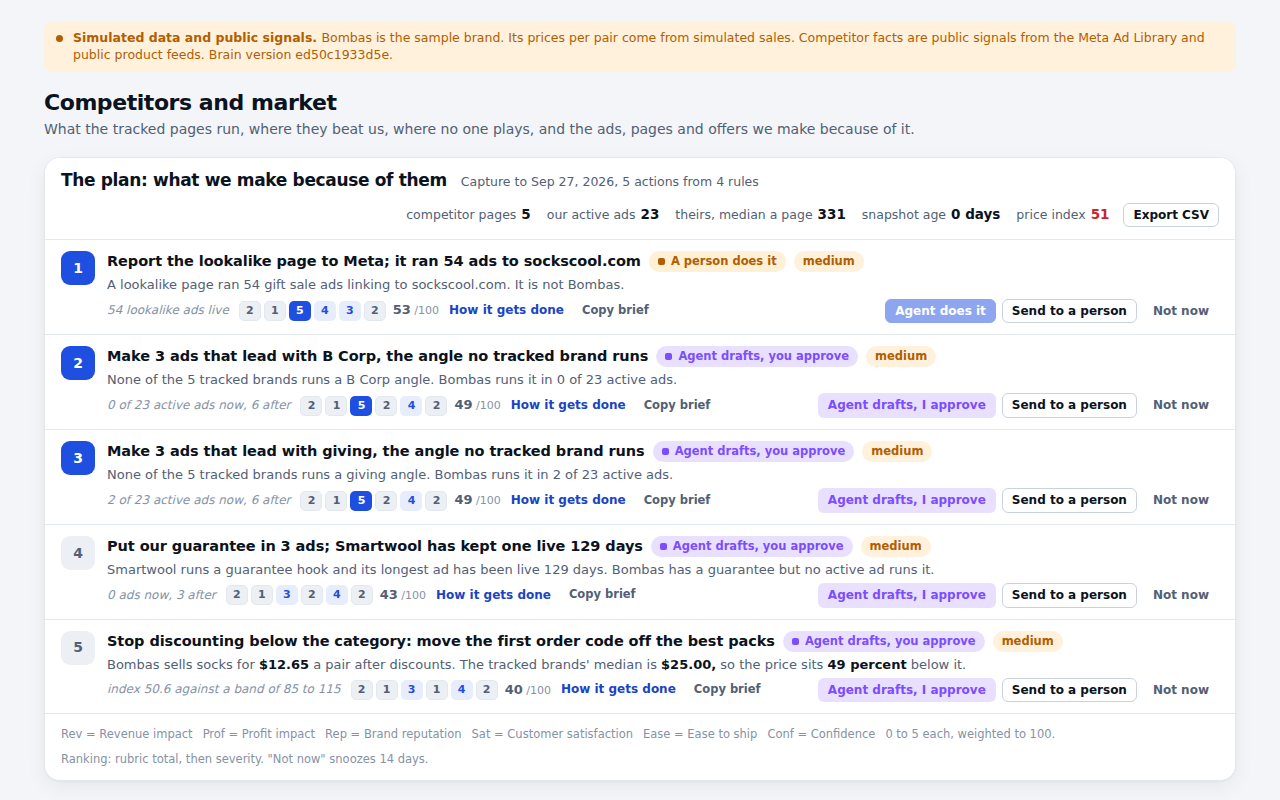
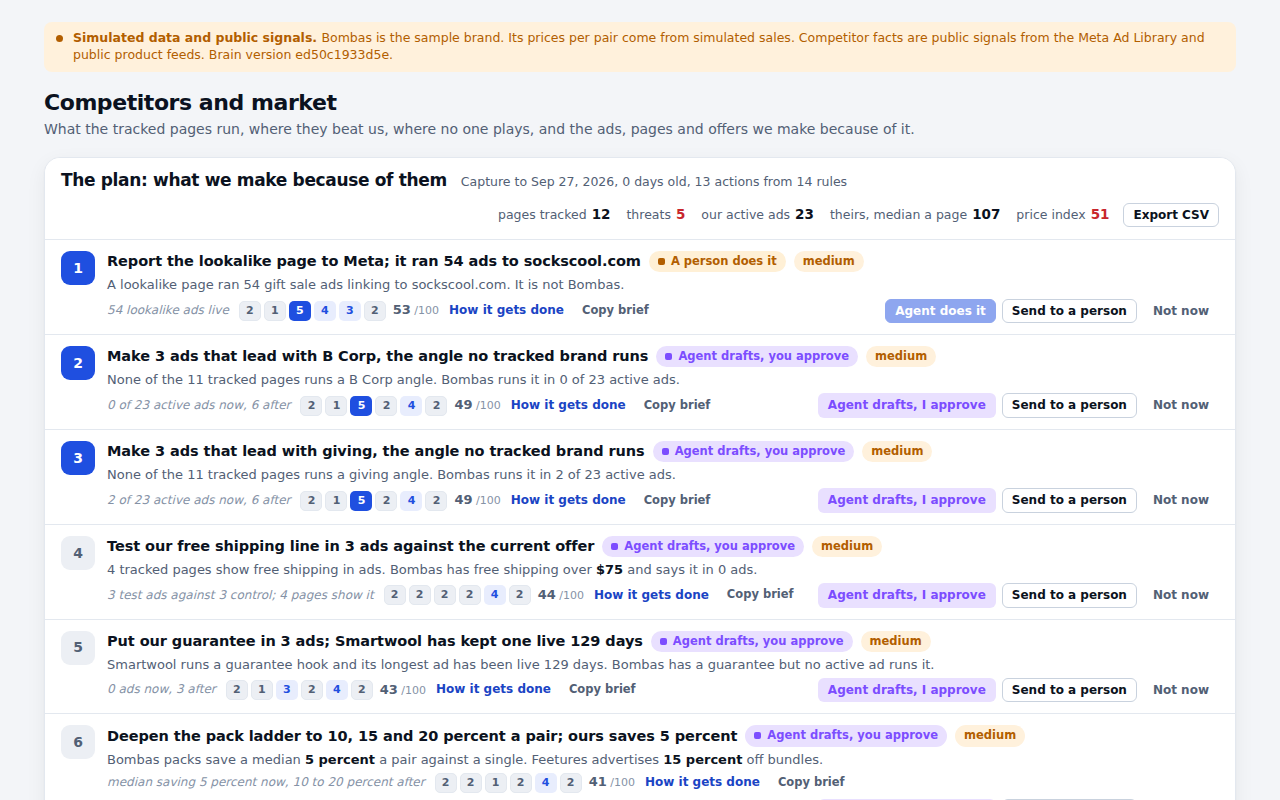
Competitors 1.10: rank for all 14 rules with real titles, steps, artefacts and drafts; findings grouped by bottleneck; orientation on the 12 pages; the angle rule checks every page with data; the round 0 formats board removed; phone width fixed; tests that every rule has a builder, every open findin
Claude-Session: https://claude.ai/code/session_01DDhw6WYtBQKeQKJrXFNfTo

diff --git a/app/screens/03-competitors/screen.js b/app/screens/03-competitors/screen.js
@@ -10,7 +10,6 @@
   const NS = 'http://www.w3.org/2000/svg';
   const pretty = (s) => String(s || '').replace(/_/g, ' ');
   const usd = (v) => v == null ? NA : '$' + Number(v).toFixed(2);
-  const chips = (list, cls) => el('div', { class: 'chips' }, ...(list || []).map((t) => el('span', { class: 'chip ' + (cls || ''), text: t })));
 
   function svg(tag, attrs, text) {
     const n = document.createElementNS(NS, tag);
@@ -100,14 +99,6 @@
       el('ul', { class: 'small muted' }, ...lad.bands.map((x) => el('li', null, x.name + ': ' + x.text + '. ', x.ref ? el('a', { href: x.ref, target: '_blank', rel: 'noopener', text: 'source' }) : null))));
   }
 
-  function boardCard(b) {
-    return el('article', { class: 'card' + (b.brand ? ' brand' : '') },
-      el('div', { class: 'row' }, el('b', { text: b.name }), b.brand ? el('span', { class: 'chip accent', text: 'your brand' }) : null,
-        el('span', { class: 'muted small', text: (b.active_ads == null ? NA : b.active_ads) + ' active ads' })),
-      el('div', { class: 'muted small', text: 'Formats' }), chips(b.formats),
-      el('div', { class: 'muted small', text: 'Hook types' }), chips(b.hooks, 'accent'));
-  }
-
   function auditTable(findings) {
     return UI.table({
       columns: [
@@ -128,7 +119,7 @@
   function planSection(p) {
     const w = p.window || {};
     mount('#plan', UI.planBoard({
-      title: 'The plan: what we make because of them', sub: 'Capture to ' + fmt.date(w.ends_on) + ', ' + p.actions.length + ' actions from ' + p.rules.length + ' rules',
+      title: 'The plan: what we make because of them', sub: 'Capture to ' + fmt.date(w.ends_on) + (p.snapshot_age_days == null ? '' : ', ' + p.snapshot_age_days + ' days old') + ', ' + p.actions.length + ' actions from ' + p.rules.length + ' rules',
       orient: p.orient, actions: p.actions, limit: 10, screen: SCREEN,
       tools: [el('button', { class: 'btn sm', type: 'button', text: 'Export CSV', onclick: () => UI.csv(p.actions.map((a, i) => ({ rank: i + 1, title: a.title, owner: a.owner, artefact: a.artefact.kind, severity: a.severity, total: a.rubric.total, why: a.why, check_on: a.check_on })), null, 'competitor-actions.csv') })],
       foot: el('div', { class: 'row' }, UI.rubricLegend(), el('span', { class: 'micro faint', text: 'Ranking: rubric total, then severity. "Not now" snoozes 14 days.' + (p.snoozed ? ' ' + p.snoozed + ' snoozed.' : '') })),
@@ -148,10 +139,10 @@
     const base = e.baseline == null ? '' : ' against ' + (Array.isArray(e.baseline) ? e.baseline.join(' to ') : one(e.baseline)) + ' (' + pretty(e.baseline_kind) + ')';
     return el('li', null, el('span', { class: 'mono micro', text: e.metric }), ' ', el('b', { class: 'num', text: v }), base, el('span', { class: 'faint', text: ', ' + e.window + (e.simulated ? ', simulated' : '') }));
   }
-  function wrongList(findings, actionsById) {
+  function wrongList(findings, actionsById, p) {
     const open = findings.filter((f) => f.status !== 'resolved').sort((a, b) => (SEV[a.severity] - SEV[b.severity]) || (b.confidence - a.confidence));
     if (!open.length) return [el('p', { class: 'muted', text: 'Nothing open on this capture.' })];
-    return open.map((f) => {
+    const card = (f) => {
       const a = actionsById[f.id];
       const go = a ? el('button', { class: 'btn soft xs', type: 'button', text: 'Go to the action', onclick: () => { const n = document.querySelector('#actions [data-id="' + CSS.escape(a.id) + '"]'); if (n) { n.scrollIntoView({ behavior: 'smooth', block: 'center' }); n.classList.add('flash'); setTimeout(() => n.classList.remove('flash'), 1600); } } }) : null;
       return el('article', { class: 'card flat finding' },
@@ -160,7 +151,12 @@
         el('div', { text: f.sentence }),
         f.evidence.length ? el('ul', { class: 'ev small' }, ...f.evidence.map(evidenceLine)) : el('div', { class: 'na small', text: 'Inputs missing: ' + ((f.unavailable || {}).inputs || []).join(', ') }),
         a ? el('div', { class: 'small muted' }, 'Fix: ', el('b', { text: a.title }), ' ', UI.ownerChip(a)) : null);
-    });
+    };
+    return p.groups.map((g) => {
+      const fs = open.filter((f) => (p.rule_group[f.rule_id] || 'watch') === g.key);
+      if (!fs.length) return null;
+      return el('div', { class: 'stack wrong-group' }, el('h4', { text: g.label + ' (' + fs.length + ')' }), ...fs.map(card));
+    }).filter(Boolean);
   }
 
   // ---------- 5a. who are we up against: pills and the side-by-side table ----------
@@ -372,13 +368,11 @@
     const byId = {};
     for (const a of p.actions.concat(p.connect)) for (const id of a.finding_ids) byId[id] = a;
     document.getElementById('wrong-sub').textContent = p.findings.length + ' findings on the latest capture, severity first. Each links to the action that closes it.';
-    mount('#wrong', ...wrongList(p.findings, byId));
+    mount('#wrong', ...wrongList(p.findings, byId, p));
     mount('#actions', ...(p.actions.length ? p.actions.map((a) => UI.actionCard(a, { screen: SCREEN })) : [el('p', { class: 'muted', text: 'No open action.' })]));
-    document.getElementById('signal-note').textContent = d.signal_note;
     document.getElementById('map-sub').textContent = 'Split at the tracked median price (' + usd(d.positioning.split_x) + ') and the middle of the claim scale. Each corner ends in a move: hold, contest, claim or skip.';
     mount('#map', ...mapCard(d.positioning));
     ladderSection(d.ladder);
-    mount('#board', ...d.board.map(boardCard));
     pagesSection(d.pages);
     coverageSection(d.coverage);
     mixSection(d.mix, byId);

diff --git a/app/screens/03-competitors/screen.css b/app/screens/03-competitors/screen.css
@@ -1,7 +1,4 @@
 .small { font-size: 12.5px; }
-.board { grid-template-columns: repeat(auto-fill, minmax(260px, 1fr)); }
-.chips { display: flex; flex-wrap: wrap; gap: 5px; }
-.chips .chip { white-space: normal; }
 .map-wrap svg { width: 100%; height: auto; display: block; }
 .map-wrap .axis { stroke: var(--line-strong); }
 .map-wrap .grid-l { stroke: var(--line); }
@@ -23,8 +20,6 @@
 #prices th { white-space: normal; min-width: 70px; }
 #audit td { white-space: normal; vertical-align: top; }
 #audit td:nth-child(2) { white-space: nowrap; }
-.board .card { display: grid; gap: 8px; align-content: start; }
-.board .card.brand { border-color: var(--s3); }
 .finding { display: grid; gap: 6px; }
 .finding .ev { margin: 0; padding-left: 18px; display: grid; gap: 2px; }
 .action.flash, #actions .flash { outline: 2px solid var(--accent); outline-offset: 2px; }
@@ -47,3 +42,5 @@ td.wrap { text-align: left; white-space: normal; }
 .move { display: grid; gap: 6px; }
 .tl-act { margin-top: 4px; }
 .repull { display: grid; gap: 6px; }
+.stack > *, .section > * { min-width: 0; }
+.pills { flex-wrap: wrap; }

diff --git a/app/screens/03-competitors/index.html b/app/screens/03-competitors/index.html
@@ -58,10 +58,6 @@
     <div class="card" id="prices"></div>
   </section>
   <section class="section">
-    <div class="sec-head"><h2>What do they run that we do not?</h2><span class="sub" id="signal-note"></span></div>
-    <div class="grid board" id="board"></div>
-  </section>
-  <section class="section">
     <div class="sec-head"><h2>How fresh is what we know about them?</h2><span class="sub">Each page's last capture and where it came from. The re-pull shows the Apify estimate and the caps before anything runs.</span></div>
     <div id="fresh" class="stack"></div>
   </section>

diff --git a/app/screens/03-competitors/api.py b/app/screens/03-competitors/api.py
@@ -7,8 +7,9 @@ in audit.py; this file shapes them for the page. No writes, nothing external.
 
   GET  plan       the plan board: ranked actions (actions.py) with decisions
                   applied, connect actions, orientation numbers, findings, rules
-  GET  overview   the desk: competitor cards, positioning map, price ladder,
-                  what they run board, lookalike record, widest price gap
+  GET  overview   the desk: pages side by side, coverage matrix, hook and offer
+                  mix, references, price and pack ladder, positioning map,
+                  changes, freshness and the re-pull plan
   GET  audit      findings from audit.py (app/contracts/audit.md shape)
   rank(brand, window)  the depth contract override app/rank.py calls
 
@@ -144,31 +145,20 @@ def map_kit(m: dict, pts: list[dict], axis: str, q: dict, split_x) -> dict:
             "missing": missing, "plain": spec["plain"]}
 
 
-def board(m: dict) -> list[dict]:
-    out = [{"name": c["name"], "formats": c["formats"], "hooks": c["hooks"], "active_ads": c["active_ads"],
-            "longest_days": c["longest_days"], "brand": False} for c in m["competitors"]]
-    prof = m["profile"]
-    out.append({"name": m["brand"].capitalize(), "brand": True,
-                "formats": [f"{k} {v}" for k, v in prof["formats"].items()],
-                "hooks": [f"{k} {v}" for k, v in sorted(prof["hooks"].items(), key=lambda kv: -kv[1])],
-                "active_ads": prof["active_ads"], "longest_days": None})
-    return out
-
-
 def orientation(m: dict) -> list[dict]:
     """3 to 6 small numbers beside the plan: where the competitive position stands today."""
-    comps = m["competitors"]
-    ads = [c["active_ads"] for c in comps if isinstance(c["active_ads"], int)]
-    ages = [c["age_days"] for c in comps if c["age_days"] is not None]
+    comps = [p for p in m["pages"] if p["role"] != "self"]
+    ads = sorted(p["active_ads"] for p in comps if isinstance(p["active_ads"], int))
+    ages = [p["age_days"] for p in comps if p["age_days"] is not None and p["source"] != "none"]
     lo, hi = audit.PRICE_BAND
     idx = m["price_position_index"]
+    threats = sum(1 for p in comps if (p.get("verdict") or {}).get("text") == "Threat")
     return [
-        {"label": "competitor pages", "value": len(comps), "unit": "n", "title": "competitor pages tracked in the brain"},
+        {"label": "pages tracked", "value": len(comps), "unit": "n", "title": "competitor pages in the brain's competitive frame"},
+        {"label": "threats", "value": threats, "unit": "n", "tone": "bad" if threats else None, "title": "pages with a threat verdict"},
         {"label": "our active ads", "value": m["profile"]["active_ads"], "unit": "n", "title": "latest Ad Library capture"},
-        {"label": "theirs, median a page", "value": sorted(ads)[len(ads) // 2] if ads else None, "unit": "n",
+        {"label": "theirs, median a page", "value": ads[len(ads) // 2] if ads else None, "unit": "n",
          "title": "median active ads across tracked pages, public signal"},
-        {"label": "snapshot age", "value": max(ages) if ages else None, "unit": "n", "suffix": " days",
-         "title": "days since the oldest competitor capture"},
         {"label": "price index", "value": idx, "unit": "n", "tone": None if idx is None else ("bad" if not lo <= idx <= hi else "good"),
          "title": f"our price per pair / tracked median x 100, band {lo} to {hi}, simulated brand price"},
     ]
@@ -190,7 +180,9 @@ def plan(brand: str, today: dt.date) -> dict:
     return {"brand": brand, "window": window, "brain_version": out["brain_version"], "simulated": True,
             "orient": orientation(m), "actions": [a for a in acts if a.get("status") != "unavailable"],
             "connect": [a for a in acts if a.get("status") == "unavailable"],
-            "snoozed": len(out["actions"]) - len(acts), "findings": out["findings"], "rules": audit.RULES}
+            "snoozed": len(out["actions"]) - len(acts), "findings": out["findings"], "rules": audit.RULES,
+            "groups": [{"key": k, "label": v} for k, v in audit.GROUP_LABEL.items()], "rule_group": audit.RULE_GROUP,
+            "snapshot_age_days": max(ages) if (ages := [p["age_days"] for p in m["pages"] if p["age_days"] is not None]) else None}
 
 
 def page_rows(m: dict) -> dict:
@@ -246,7 +238,7 @@ def overview(brand: str, today: dt.date) -> dict:
     return {"brand": brand, "today": today.isoformat(), "version": brain.version(),
             "simulated_note": SIMULATED_NOTE.format(name=name), "signal_note": SIGNAL_NOTE,
             "competitors": [_public(c) for c in m["competitors"]], "angles": m["angles"],
-            "positioning": positioning(m), "board": board(m),
+            "positioning": positioning(m),
             "lookalike": m["lookalike"], "gap": gaps(m), "pages": page_rows(m),
             "coverage": {"all": m["coverage"], "direct": m["coverage_direct"]}, "mix": m["mix"], "references": m["references"], "ladder": m["ladder"], "changes": m["changes"], "freshness": freshness(m, brand),
             "category_median": m["category_median"], "price_position_index": m["price_position_index"]}

diff --git a/app/screens/03-competitors/audit.py b/app/screens/03-competitors/audit.py
@@ -189,6 +189,12 @@ RULES = [
      "inputs": ["brain offers.promo_share_active_ads", "brain competitors offers_seen"], "capability": "LIFE-C38",
      "owner_screen": SCREEN},
 ]
+# what a strategist groups the findings by on the page (depth.md section 2: grouped by bottleneck)
+RULE_GROUP = {"COMP-R01": "creative", "COMP-R05": "creative", "COMP-R06": "creative", "COMP-R03": "offer", "COMP-R07": "offer",
+              "COMP-R08": "offer", "COMP-R09": "offer", "COMP-R02": "price", "COMP-R10": "price", "COMP-R11": "position",
+              "COMP-R04": "watch", "COMP-R12": "watch", "COMP-R13": "watch", "COMP-R14": "watch"}
+GROUP_LABEL = {"creative": "Ads they run that we do not", "offer": "Offers they say that we do not",
+               "price": "Price against theirs", "position": "Corners of the map", "watch": "Watch and protect"}
 RUBRIC_OVERRIDES = {"COMP-R01": {"reputation": 5}, "COMP-R02": {"reputation": 3}, "COMP-R04": {"reputation": 5, "satisfaction": 4}}
 AUTONOMY = {"BRN-C11": "agent_does", "BRAND-C20": "agent_does", "LIFE-C39": "founder_gate", "CREA-C31": "agent_does", "CREA-C06": "agent_does", "CREA-C04": "agent_does", "LIFE-C47": "agent_does", "LIFE-C38": "founder_gate", "BRAND-C21": "founder_gate", "BRAND-C24": "founder_gate", "MONEY-C48": "human_assist"}
 
@@ -395,6 +401,13 @@ def market(brand: str, today: dt.date, root: Path | None = None) -> dict:
     for p in pages:
         if p["role"] != "self":
             p["verdict"] = pagemod.verdict(p, us, top)
+    # the brand-held angles (R01) are checked against every tracked page with data, not only the detailed records
+    live = [p for p in pages if p["role"] != "self" and p["source"] != "none"]
+    for a in angles:
+        spec = next(x for x in ANGLES if x["key"] == a["key"])
+        a["competitors_using"] = [p["name"] for p in live if _hits(" ".join(
+            [str(x or "") for x in p["hook_labels"] + p["quotes"] + [p["positioning"], p["push"]]]), spec["keys"])]
+        a["pages_checked"] = len(live)
     cov = covmod.matrix(pages, snap.ANGLES, snapshot, brain)
     points = covmod.proof_points(brain)
     refs = refmod.build(pages, top, snap.FORMAT_LABEL, lambda a: covmod.proof_for(points, a))
@@ -480,6 +493,7 @@ def rule_angles(m, ends_on):
             continue
         if a["brand_ads"] / active >= ANGLE_SHARE_MAX:
             continue
+        n = a.get("pages_checked", len(comps))
         ev = [_row("competitors_using_angle", 0, "n", "latest capture", ends_on, _fresh(comps), 0, "threshold",
                    "ad_library"),
               _row("competitors_tracked", n, "n", "latest capture", ends_on, _fresh(comps), None, "threshold",
@@ -488,7 +502,7 @@ def rule_angles(m, ends_on):
                    round(active * ANGLE_SHARE_MAX, 1), "threshold", "ad_library"),
               _row("brand_active_ads", active, "n", "latest capture", ends_on, _fresh(comps), None, "threshold",
                    "ad_library")]
-        sentence = (f"None of the {n} tracked brands runs a {a['label']} angle. "
+        sentence = (f"None of the {n} tracked pages runs a {a['label']} angle. "
                     f"Bombas runs it in {a['brand_ads']} of {active} active ads.").replace("Bombas", m["brand"].capitalize())
         conf = 0.5 - (0.2 if any(c["expired"] for c in comps) else 0)
         ent = {"type": "offer", "id": f"angle_{a['key']}", "label": f"{a['label']} angle"}

diff --git a/tests/test_screen_competitors.py b/tests/test_screen_competitors.py
@@ -1,5 +1,5 @@
 """Tests for screen 03-competitors on the Bombas brain: audit.py in the contract shape and the api
-(overview tiles, insights, chart, map, price ladder, board, lookalike). Edits go to a temp copy of app/brain."""
+(plan, rank, pages, coverage, mix, references, ladder, map, changes, freshness). Edits go to a temp copy of app/brain."""
 import datetime as dt
 import importlib.util
 import json
@@ -184,6 +184,8 @@ class TestApi(TempBrain):
         self.assertTrue(p['actions'])
         labels = [o['label'] for o in p['orient']]
         self.assertTrue(3 <= len(labels) <= 6)
+        self.assertEqual(next(o for o in p['orient'] if o['label'] == 'pages tracked')['value'], 12)
+        self.assertEqual({g['key'] for g in p['groups']}, set(audit.RULE_GROUP.values()))
         self.assertIn('price index', labels)
         idx = next(o for o in p['orient'] if o['label'] == 'price index')
         self.assertEqual(idx['value'], self.d['price_position_index'])
@@ -199,7 +201,7 @@ class TestApi(TempBrain):
         for c in self.d['competitors']:
             self.assertFalse([k for k in c if k.startswith('_')])
             self.assertIn('giving', c['gap_to_own'])
-        self.assertTrue(self.d['board'][-1]['brand'])
+        self.assertNotIn('board', self.d)
         self.assertEqual(self.d['lookalike']['links_to'], 'sockscool.com')
         self.assertNotIn('lookalike_page', [c['id'].split('.')[-1] for c in self.d['competitors']])
 
@@ -631,6 +633,34 @@ class TestRank(TempBrain):
 
     def test_deterministic(self):
         self.assertEqual(json.dumps(api.rank('bombas', self.W)['actions']), json.dumps(self.out['actions']))
+
+    def test_every_rule_has_a_builder_and_a_group(self):
+        ids = [r['rule_id'] for r in audit.RULES]
+        self.assertEqual(len(ids), len(set(ids)))
+        for rid in ids:
+            self.assertIn(rid, api.actions.BUILDERS)
+            self.assertIn(rid, audit.RULE_GROUP)
+            self.assertIn(audit.RULES[ids.index(rid)]['capability'], audit.AUTONOMY)
+
+    def test_every_open_finding_ranks_at_every_edit(self):
+        """Findings from edited brains (no competitors, stale window) still map to valid actions."""
+        for window in (self.W, {'ends_on': '2026-10-20', 'days': 28, 'trailing': 4}):
+            findings = audit.run('bombas', window, self.tmp)
+            acts = api.rank('bombas', window)['actions']
+            covered = {i for a in acts for i in a['finding_ids']}
+            for f in findings:
+                self.assertIn(f['id'], covered)
+            for a in acts:
+                self.assertEqual(api.actions.ranker.validate_action(a), [])
+
+    def test_not_now_snoozes(self):
+        path = self.tmp / 'decisions.json'
+        a = self.out['actions'][0]
+        path.write_text(json.dumps([{'finding_id': a['id'], 'choice': 'not_now', 'time': '2026-09-27T10:00:00Z'}]))
+        kept = api.actions.ranker.apply_decisions([dict(x) for x in self.out['actions']], dt.date(2026, 9, 28), path)
+        self.assertNotIn(a['id'], [x['id'] for x in kept])
+        later = api.actions.ranker.apply_decisions([dict(x) for x in self.out['actions']], dt.date(2026, 10, 20), path)
+        self.assertIn(a['id'], [x['id'] for x in later])
 
     def test_app_rank_uses_override(self):
         r = api.actions.ranker.rank('03-competitors', 'bombas', self.W)

diff --git a/app/screens/03-competitors/actions.py b/app/screens/03-competitors/actions.py
@@ -88,7 +88,7 @@ def act_angle(f: dict, m: dict) -> dict:
         NEVER_COPY,
     ])
     return {
-        "title": f"Make 3 ads that lead with {angle['label']}, the angle no tracked brand runs",
+        "title": f"Make 3 ads that lead with {angle['label']}, the angle no tracked page runs",
         "owner": "agent_drafts",
         "artefact": {"kind": "ad_brief", "label": f"3 ad briefs that lead with {angle['label']}", "draft": draft},
         "steps": _steps(("agent", f"Pull the proof for {angle['label']} from the brain and the current top 3 ads by spend."),

diff --git a/app/screens/03-competitors/FEATURES.md b/app/screens/03-competitors/FEATURES.md
@@ -30,9 +30,22 @@ Round 0 notes (28 Sep 2026): brand price per pair is simulated net sales per uni
 | 1.7 | Positioning map on `Charts.positioningMap`: price per pair against durability or comfort claim, us and every placed brand sized by active ads, pages with no price band listed as not placed; each corner ends in a move computed in code (hold, contest with the claim points we miss, claim, skip) with a BRAND-C20 decision row; rule COMP-R11 puts an open strong-claim corner on the plan as a 2-frame positioning test (does not fire on this capture, tested on an edited brain) | done |
 | 1.8 | Launches and changes (`changes.py`): a 28-day timeline, newest first, from snapshot diffs when two ad-level snapshots exist (new ads, formats, offer types, angles) and from the brain now (full account refreshes, the lookalike page, our own launches); each change is follow, watch or ignore with the action and a BRN-C11 decision row; rule COMP-R12 puts a direct competitor's full refresh on the plan as a research note | done |
 | 1.9 | Snapshot freshness and the re-pull: per page the page id, last capture, age and source (fresh, ageing, stale, no capture; never 0); "Re-pull: show the estimate first" reveals the plan from `snapshot.plan` (12 pages by page id, 1,800 ads cap, $2.08 estimate, $4 run and $30 week caps, week spend from the ledger, Allbirds skipped for no page id, whether the key is set), the run command and a person-owned BRN-C11 decision; the screen never spends. Rules COMP-R13 page with no id (person pastes it) and COMP-R14 stale capture (person approves the spend) | done |
-| 1.10 | `rank` for every rule, old and new, with tests that every finding maps to an action | todo |
+| 1.10 | `rank` for all 14 rules (COMP-R01 to R14): each has a builder with a real title, owner, 2 to 5 steps with who, the artefact kind (ad_brief, copy, test_brief, offer, page_section, research_note, ticket, brain_record, connector_setup) and a draft from the brain where it can; findings grouped on the page by bottleneck (ads, offers, price, map corners, watch); orientation on the 12 pages (pages tracked, threats, our ads, theirs, price index); R01 now checks all 11 pages with data; the round 0 "what they run" board removed; phone width fixed; tests: every rule has a builder and a group, every open finding ranks and validates on edited brains and a late window, "Not now" snoozes 14 days | done |
 
 Round 1 notes: `snapshot.py` plans and runs a page-id Ad Library pull through `app/connectors/apify.py` (12 pages with ids, 1,800 items cap, estimate $2.08, inside the $4 run and $30 week caps). The live run was blocked by the session's permission check on 28 Sep, so round 1 builds on the brain's 28 Sep pulls (page-level formats, hook types, offers, run lengths and 3 quoted ads a page) and the page says so.
+
+### Round 1 status for Kevin (28 Sep 2026)
+
+1. A founder can now open Competitors and see 13 ranked moves first: ads to make, offers to test, a pack ladder to fix, a lookalike page to report, each with owner, steps and a drafted brief.
+2. Behind the plan: the 12 tracked pages side by side with threat, watch or ignore; a coverage matrix of angles by format with "Brief it" on every gap; the hook and offer mix with an answer per gap.
+3. Also new: longest running ads as references (borrow layout and mood, never copy), the price and pack ladder against the bands, the positioning map with a move per corner, a 28-day changes timeline, and freshness with the re-pull estimate shown first.
+4. What changed: 14 audit rules (was 4), all ranked through our own `rank`; tiles, insight cards, the ads chart, the lookalike banner and the formats board are gone.
+5. Honest gaps: the live Ad Library pull ($2.08, inside the caps) was blocked by this session's permission check, so the matrix and mixes are estimates from the brain's page summaries and say so; offer share, main CTA and new-in-14-days wait for an ad-level snapshot.
+6. Next, round 2: run the snapshot (Kevin's approval) to make every cell counted, then the room's SERP overlap, marketplace presence, review comparison and pricing moves, and a web pass on what Foreplay, Motion, Atria and Similarweb do, rebuilt as rules.
+
+## Contract asks
+
+- A snapshot run needs a permission for `snapshot.py --live` (Apify, page ids only, inside the Bombas caps) in the session settings; local fallback: the screen reads the brain's page summaries and labels every estimate.
 
 ## Room jobs (JTBD)
 
@@ -128,4 +141,4 @@ Round 1 notes: `snapshot.py` plans and runs a page-id Ad Library pull through `a
 | Round | Features picked | Date | Notes |
 |---|---|---|---|
 | 0 | 0.1 to 0.8 | 2026-09-28 | Bombas brain and simulated prices |
-| 1 | 1.1 to 1.9 | 2026-09-28 | Plan first; rank override; 12 pages side by side; coverage matrix; hook and offer mix; references; price and pack ladder; positioning map with moves; changes timeline; freshness and re-pull |
+| 1 | 1.1 to 1.10 | 2026-09-28 | Plan first; rank override; 12 pages side by side; coverage matrix; hook and offer mix; references; price and pack ladder; positioning map with moves; changes timeline; freshness and re-pull; rank for all 14 rules. Screenshot `round1.png` |
